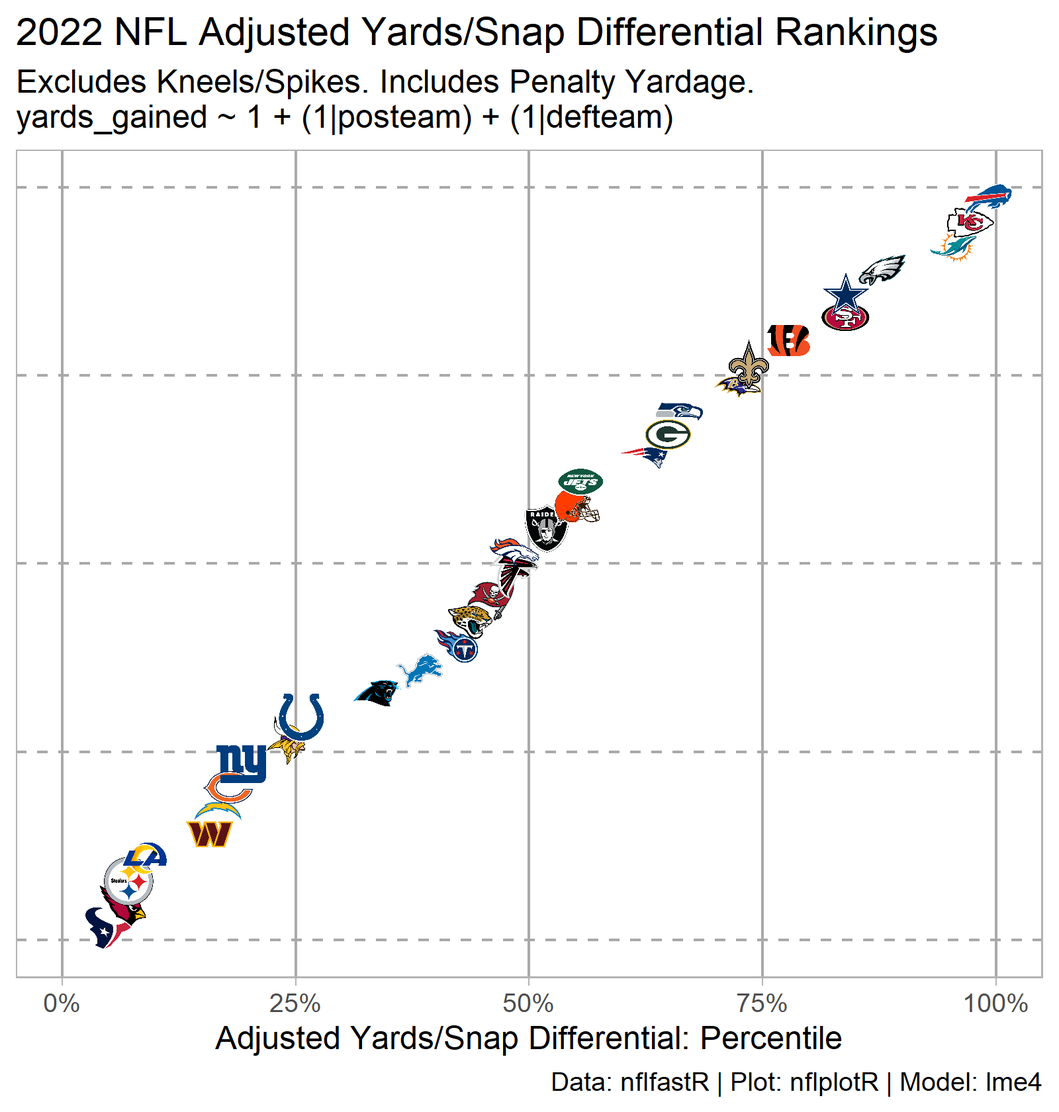
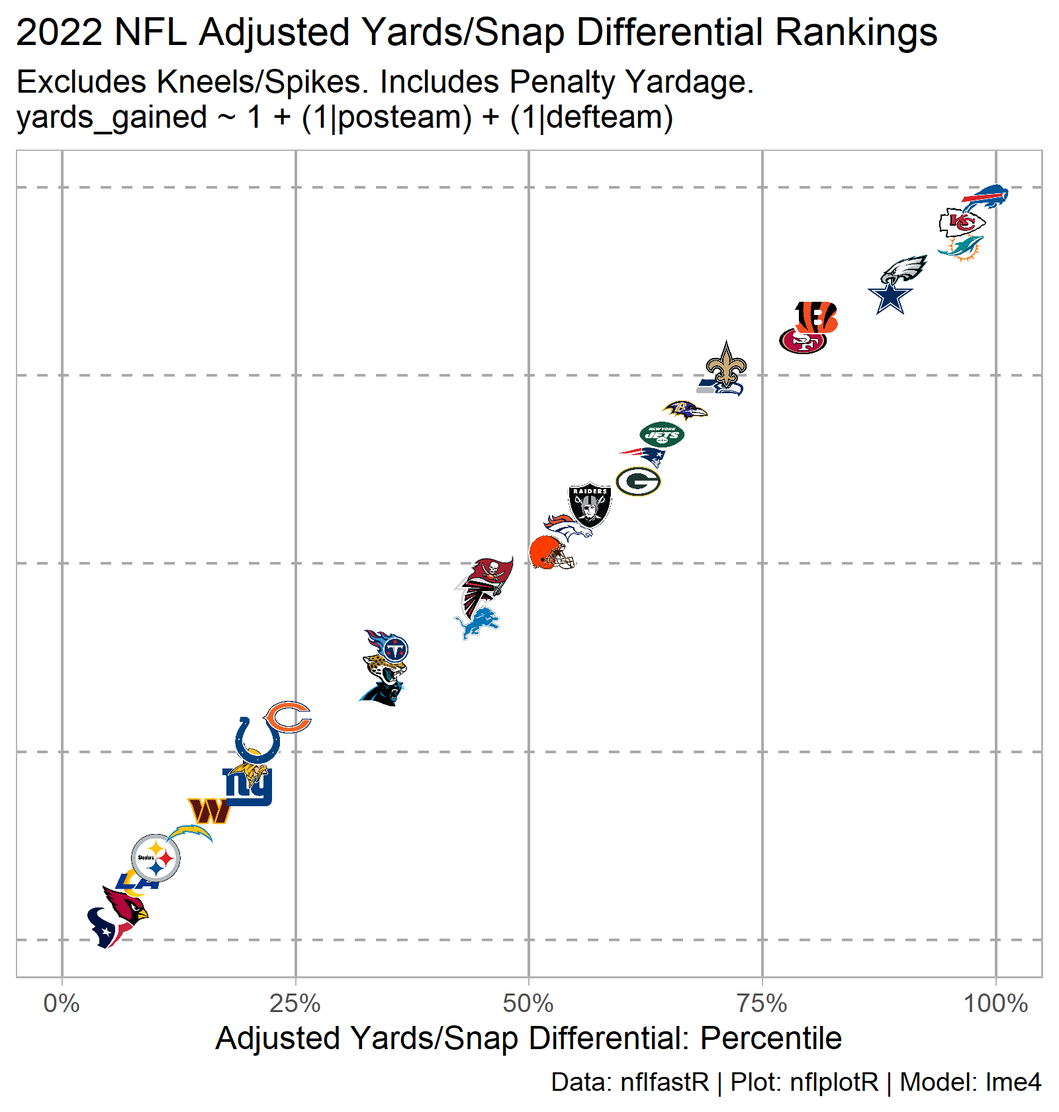
Week 13

Changed region(s): [[0.3438, 0.1548, 0.9688, 0.65], [0.0938, 0.619, 0.3125, 0.8667]]

diff --git a/docs/2022-nfl-team-metrics.html b/docs/2022-nfl-team-metrics.html
@@ -94,8 +94,8 @@ code span.wa { color: #5e5e5e; font-style: italic; } /* Warning */
 
 
   <!--  https://schema.org/Article -->
-  <meta property="article:published" itemprop="datePublished" content="2022-11-29"/>
-  <meta property="article:created" itemprop="dateCreated" content="2022-11-29"/>
+  <meta property="article:published" itemprop="datePublished" content="2022-12-06"/>
+  <meta property="article:created" itemprop="dateCreated" content="2022-12-06"/>
   <meta name="article:author" content="Casey Caprini"/>
 
   <!--  https://developers.facebook.com/docs/sharing/webmasters#markup -->
@@ -114,7 +114,7 @@ code span.wa { color: #5e5e5e; font-style: italic; } /* Warning */
   <!--radix_placeholder_rmarkdown_metadata-->
 
   <script type="text/json" id="radix-rmarkdown-metadata">
-  {"type":"list","attributes":{"names":{"type":"character","attributes":{},"value":["title","description","author","date","output"]}},"value":[{"type":"character","attributes":{},"value":["2022 NFL Team Metrics"]},{"type":"character","attributes":{},"value":["Team time average metrics for the 2021 regular season.\n"]},{"type":"list","attributes":{},"value":[{"type":"list","attributes":{"names":{"type":"character","attributes":{},"value":["name"]}},"value":[{"type":"character","attributes":{},"value":["Casey Caprini"]}]}]},{"type":"character","attributes":{},"value":["11-29-2022"]},{"type":"list","attributes":{"names":{"type":"character","attributes":{},"value":["distill::distill_article"]}},"value":[{"type":"list","attributes":{"names":{"type":"character","attributes":{},"value":["self_contained","code_folding"]}},"value":[{"type":"logical","attributes":{},"value":[false]},{"type":"logical","attributes":{},"value":[true]}]}]}]}
+  {"type":"list","attributes":{"names":{"type":"character","attributes":{},"value":["title","description","author","date","output"]}},"value":[{"type":"character","attributes":{},"value":["2022 NFL Team Metrics"]},{"type":"character","attributes":{},"value":["Team time average metrics for the 2021 regular season.\n"]},{"type":"list","attributes":{},"value":[{"type":"list","attributes":{"names":{"type":"character","attributes":{},"value":["name"]}},"value":[{"type":"character","attributes":{},"value":["Casey Caprini"]}]}]},{"type":"character","attributes":{},"value":["12-06-2022"]},{"type":"list","attributes":{"names":{"type":"character","attributes":{},"value":["distill::distill_article"]}},"value":[{"type":"list","attributes":{"names":{"type":"character","attributes":{},"value":["self_contained","code_folding"]}},"value":[{"type":"logical","attributes":{},"value":[false]},{"type":"logical","attributes":{},"value":[true]}]}]}]}
   </script>
   <!--/radix_placeholder_rmarkdown_metadata-->
   <!--radix_placeholder_navigation_in_header-->
@@ -2408,7 +2408,7 @@ code span.wa { color: #5e5e5e; font-style: italic; } /* Warning */
 <!--radix_placeholder_front_matter-->
 
 <script id="distill-front-matter" type="text/json">
-{"title":"2022 NFL Team Metrics","description":"Team time average metrics for the 2021 regular season.","authors":[{"author":"Casey Caprini","authorURL":"#","affiliation":"&nbsp;","affiliationURL":"#","orcidID":""}],"publishedDate":"2022-11-29T00:00:00.000-05:00","citationText":"Caprini, 2022"}
+{"title":"2022 NFL Team Metrics","description":"Team time average metrics for the 2021 regular season.","authors":[{"author":"Casey Caprini","authorURL":"#","affiliation":"&nbsp;","affiliationURL":"#","orcidID":""}],"publishedDate":"2022-12-06T00:00:00.000-05:00","citationText":"Caprini, 2022"}
 </script>
 
 <!--/radix_placeholder_front_matter-->
@@ -2441,7 +2441,7 @@ code span.wa { color: #5e5e5e; font-style: italic; } /* Warning */
 <div class="d-byline">
   Casey Caprini  
   
-<br/>11-29-2022
+<br/>12-06-2022
 </div>
 
 <div class="d-article">
@@ -2774,8 +2774,8 @@ Show code
 <span>  <span class='op'>)</span></span></code></pre>
 </div>
 </details>
-<div id="htmlwidget-a11e5197d963953700ed" class="reactable html-widget" style="width:auto;height:675px;"></div>
-<script type="application/json" data-for="htmlwidget-a11e5197d963953700ed">{"x":{"tag":{"name":"Reactable","attribs":{"data":{"team_logo_espn":["https://a.espncdn.com/i/teamlogos/nfl/500/ari.png","https://a.espncdn.com/i/teamlogos/nfl/500/atl.png","https://a.espncdn.com/i/teamlogos/nfl/500/bal.png","https://a.espncdn.com/i/teamlogos/nfl/500/buf.png","https://a.espncdn.com/i/teamlogos/nfl/500-dark/car.png","https://a.espncdn.com/i/teamlogos/nfl/500/chi.png","https://a.espncdn.com/i/teamlogos/nfl/500/cin.png","https://a.espncdn.com/i/teamlogos/nfl/500/cle.png","https://a.espncdn.com/i/teamlogos/nfl/500/dal.png","https://a.espncdn.com/i/teamlogos/nfl/500/den.png","https://a.espncdn.com/i/teamlogos/nfl/500/det.png","https://a.espncdn.com/i/teamlogos/nfl/500/gb.png","https://a.espncdn.com/i/teamlogos/nfl/500/hou.png","https://a.espncdn.com/i/teamlogos/nfl/500/ind.png","https://a.espncdn.com/i/teamlogos/nfl/500/jax.png","https://a.espncdn.com/i/teamlogos/nfl/500/kc.png","https://a.espncdn.com/i/teamlogos/nfl/500/lar.png","https://a.espncdn.com/i/teamlogos/nfl/500/lac.png","https://a.espncdn.com/i/teamlogos/nfl/500/lv.png","https://a.espncdn.com/i/teamlogos/nfl/500/mia.png","https://a.espncdn.com/i/teamlogos/nfl/500/min.png","https://a.espncdn.com/i/teamlogos/nfl/500/ne.png","https://a.espncdn.com/i/teamlogos/nfl/500/no.png","https://a.espncdn.com/i/teamlogos/nfl/500/nyg.png","https://a.espncdn.com/i/teamlogos/nfl/500/nyj.png","https://a.espncdn.com/i/teamlogos/nfl/500/phi.png","https://a.espncdn.com/i/teamlogos/nfl/500/pit.png","https://a.espncdn.com/i/teamlogos/nfl/500/sea.png","https://a.espncdn.com/i/teamlogos/nfl/500/sf.png","https://a.espncdn.com/i/teamlogos/nfl/500/tb.png","https://a.espncdn.com/i/teamlogos/nfl/500/ten.png","https://a.espncdn.com/i/teamlogos/nfl/500/wsh.png"],"team":["ARI","ATL","BAL","BUF","CAR","CHI","CIN","CLE","DAL","DEN","DET","GB","HOU","IND","JAX","KC","LA","LAC","LV","MIA","MIN","NE","NO","NYG","NYJ","PHI","PIT","SEA","SF","TB","TEN","WAS"],"time_avg_lead":[-4.05344907407407,-1.74164351851852,4.50881313131313,5.72234848484849,-1.05662037037037,-3.03743055555556,1.79866161616162,0.0482828282828282,4.2035101010101,-1.24575757575758,0.058510101010101,-2.13541666666667,-4.94623737373737,-3.61984848484849,0.828257575757576,3.82598484848485,-1.4644696969697,-0.617348484848485,-1.36429292929293,1.38265151515152,-1.10992424242424,1.42795454545455,-1.52958333333333,-1.79171717171717,-0.426363636363636,5.50765151515152,-3.44016666666667,0.881944444444444,3.16732323232323,-0.454520202020202,2.9205303030303,-1.2175],"time_avg_wins":[3.96118842812051,5.46112647908553,8.26427380444441,7.93060653459095,5.90963509235272,4.18948346909166,5.52948407756933,5.50883782943219,7.43670586307019,4.69173038314492,5.67150652565316,4.66634673723079,3.27202052117047,3.62503255878838,5.66414688485867,7.01931793822915,4.38732927543716,5.0949023210292,4.93559868976103,5.80690016267016,5.61769389570915,6.13813703023069,4.71922710996195,4.25382338177725,5.39380490501931,8.2505598052664,3.89642077193528,6.26423985644772,7.11614185877783,5.27537574960225,7.66018671781494,5.38821534172662],"time_avg_win_percent":[0.330099035676709,0.455093873257128,0.751297618585856,0.720964230417359,0.492469591029393,0.349123622424305,0.502680370688121,0.50080343903929,0.676064169370018,0.426520943922266,0.515591502332106,0.388862228102566,0.297456411015498,0.329548414435307,0.514922444078061,0.638119812566286,0.398848115948833,0.463172938275382,0.448690789978276,0.527900014788197,0.510699445064469,0.558012457293699,0.393268925830162,0.386711216525204,0.490345900456301,0.750050891387855,0.389642077193528,0.569476350586157,0.646921987161621,0.479579613600205,0.696380610710449,0.449017945143885],"off_yards_per_snap":[4.54032258064516,5.27855153203343,5.38161559888579,6.1562082777036,4.75736325385694,5.04611330698287,5.4340878828229,5.32655654383736,5.26812585499316,4.73412698412698,5.39368998628258,5.40026075619296,4.5362962962963,4.59025032938076,5.26379542395693,6.06493506493506,4.30668604651163,4.95838751625488,5.42739726027397,6.14486638537271,5.03306878306878,5.10771470160116,5.41253263707572,4.78675496688742,4.88811188811189,5.49934123847167,4.38737446197991,5.66280752532561,5.37849162011173,4.81524547803618,4.87689969604863,4.69166666666667],"off_adj_yards_per_snap":[4.7875621235831,5.21483121430855,5.28543549671728,5.66457430985253,4.95381190170587,5.09052771313428,5.31027520716325,5.26019516182905,5.1937014956473,4.91651085505447,5.27151741047094,5.29635198607914,4.82930234779262,4.85133897429465,5.20983161535981,5.64280800664446,4.75002315780824,5.02932416737374,5.29698112639498,5.6422247358236,5.08391161436252,5.11373344962357,5.28052960820893,4.93738685752726,5.01671090359482,5.30894176414819,4.7875223897739,5.39169427242395,5.24931980882225,4.96241981390419,5.01875650326691,4.88233911773926],"def_yards_per_snap":[5.37848101265823,5.34178743961353,5.16272600834492,4.8326639892905,4.88502994011976,5.7758152173913,5.01129943502825,5.4541547277937,4.39733333333333,4.42629482071713,5.89178617992177,5.28961038961039,5.51617076326003,4.76610644257703,5.42876526458616,5.04287690179806,5.08393632416787,5.71004243281471,5.53856749311295,5.32633053221288,5.66711409395973,4.78279266572638,4.98611111111111,5.26206896551724,4.70572207084469,4.51983584131327,5.41973490427099,5.49487179487179,4.52608695652174,4.72352132049519,4.95150720838794,5.18145161290323],"def_adj_yards_per_snap":[5.20108886084684,5.22657936759538,5.1267657090688,5.03407114137792,5.0676867519261,5.34137309640743,5.10497843579554,5.22572688849035,4.92633676598911,4.92764565602068,5.35292718206685,5.19374757795083,5.2780405052586,5.02906074808599,5.25307097461319,5.12659278356914,5.11646240153074,5.29130085066299,5.28453702215769,5.18846746492724,5.27592685576857,5.02947777368179,5.11124785395862,5.17356198030952,4.97984567309593,4.99500328729662,5.1851199657054,5.28049651846245,4.98328349562388,4.9910153155732,5.07403200645047,5.154924200164],"yards_per_snap_diff":[-0.838158432013067,-0.0632359075801006,0.21888959054087,1.32354428841311,-0.127666686262818,-0.729701910408433,0.422788447794654,-0.127598183956339,0.870792521659827,0.307832163409853,-0.498096193639195,0.110650366582569,-0.97987446696373,-0.175856113196266,-0.164969840629229,1.022058163137,-0.777250277656244,-0.751654916559834,-0.111170232838975,0.81853585315983,-0.634045310890948,0.324922035874789,0.426421525964607,-0.475313998629824,0.182389817267202,0.979505397158404,-1.03236044229107,0.16793573045382,0.852404663589993,0.0917241575409902,-0.07460751233931,-0.48978494623656],"adj_yards_per_snap_diff":[-0.413526737263743,-0.0117481532868249,0.158669787648476,0.630503168474609,-0.113874850220234,-0.250845383273151,0.20529677136771,0.034468273338697,0.267364729658185,-0.0111348009662064,-0.0814097715959159,0.102604408128305,-0.448738157465982,-0.177721773791333,-0.0432393592533744,0.516215223075317,-0.366439243722493,-0.261976683289255,0.0124441042372947,0.453757270896359,-0.19201524140605,0.0842556759417787,0.169281754250309,-0.236175122782264,0.0368652304988881,0.313938476851572,-0.397597575931496,0.111197753961496,0.266036313198372,-0.0285955016690096,-0.0552755031835579,-0.272585082424743]},"columns":[{"accessor":"team_logo_espn","name":" ","type":"character","format":{"cell":{"digits":1},"aggregated":{"digits":1}},"align":"center","sortable":false,"cell":[{"name":"Fragment","attribs":[],"children":[{"name":"div","attribs":{"style":{"display":"flex","justifyContent":"center"}},"children":[{"name":"img","attribs":{"src":"https://a.espncdn.com/i/teamlogos/nfl/500/ari.png","align":"center","height":24,"width":24},"children":[]}]}]},{"name":"Fragment","attribs":[],"children":[{"name":"div","attribs":{"style":{"display":"flex","justifyContent":"center"}},"children":[{"name":"img","attribs":{"src":"https://a.espncdn.com/i/teamlogos/nfl/500/atl.png","align":"center","height":24,"width":24},"children":[]}]}]},{"name":"Fragment","attribs":[],"children":[{"name":"div","attribs":{"style":{"display":"flex","justifyContent":"center"}},"children":[{"name":"img","attribs":{"src":"https://a.espncdn.com/i/teamlogos/nfl/500/bal.png","align":"center","height":24,"width":24},"children":[]}]}]},{"name":"Fragment","attribs":[],"children":[{"name":"div","attribs":{"style":{"display":"flex","justifyContent":"center"}},"children":[{"name":"img","attribs":{"src":"https://a.espncdn.com/i/teamlogos/nfl/500/buf.png","align":"center","height":24,"width":24},"children":[]}]}]},{"name":"Fragment","attribs":[],"children":[{"name":"div","attribs":{"style":{"display":"flex","justifyContent":"center"}},"children":[{"name":"img","attribs":{"src":"https://a.espncdn.com/i/teamlogos/nfl/500-dark/car.png","align":"center","height":24,"width":24},"children":[]}]}]},{"name":"Fragment","attribs":[],"children":[{"name":"div","attribs":{"style":{"display":"flex","justifyContent":"center"}},"children":[{"name":"img","attribs":{"src":"https://a.espncdn.com/i/teamlogos/nfl/500/chi.png","align":"center","height":24,"width":24},"children":[]}]}]},{"name":"Fragment","attribs":[],"children":[{"name":"div","attribs":{"style":{"display":"flex","justifyContent":"center"}},"children":[{"name":"img","attribs":{"src":"https://a.espncdn.com/i/teamlogos/nfl/500/cin.png","align":"center","height":24,"width":24},"children":[]}]}]},{"name":"Fragment","attribs":[],"children":[{"name":"div","attribs":{"style":{"display":"flex","justifyContent":"center"}},"children":[{"name":"img","attribs":{"src":"https://a.espncdn.com/i/teamlogos/nfl/500/cle.png","align":"center","height":24,"width":24},"children":[]}]}]},{"name":"Fragment","attribs":[],"children":[{"name":"div","attribs":{"style":{"display":"flex","justifyContent":"center"}},"children":[{"name":"img","attribs":{"src":"https://a.espncdn.com/i/teamlogos/nfl/500/dal.png","align":"center","height":24,"width":24},"children":[]}]}]},{"name":"Fragment","attribs":[],"children":[{"name":"div","attribs":{"style":{"display":"flex","justifyContent":"center"}},"children":[{"name":"img","attribs":{"src":"https://a.espncdn.com/i/teamlogos/nfl/500/den.png","align":"center","height":24,"width":24},"children":[]}]}]},{"name":"Fragment","attribs":[],"children":[{"name":"div","attribs":{"style":{"display":"flex","justifyContent":"center"}},"children":[{"name":"img","attribs":{"src":"https://a.espncdn.com/i/teamlogos/nfl/500/det.png","align":"center","height":24,"width":24},"children":[]}]}]},{"name":"Fragment","attribs":[],"children":[{"name":"div","attribs":{"style":{"display":"flex","justifyContent":"center"}},"children":[{"name":"img","attribs":{"src":"https://a.espncdn.com/i/teamlogos/nfl/500/gb.png","align":"center","height":24,"width":24},"children":[]}]}]},{"name":"Fragment","attribs":[],"children":[{"name":"div","attribs":{"style":{"display":"flex","justifyContent":"center"}},"children":[{"name":"img","attribs":{"src":"https://a.espncdn.com/i/teamlogos/nfl/500/hou.png","align":"center","height":24,"width":24},"children":[]}]}]},{"name":"Fragment","attribs":[],"children":[{"name":"div","attribs":{"style":{"display":"flex","justifyContent":"center"}},"children":[{"name":"img","attribs":{"src":"https://a.espncdn.com/i/teamlogos/nfl/500/ind.png","align":"center","height":24,"width":24},"children":[]}]}]},{"name":"Fragment","attribs":[],"children":[{"name":"div","attribs":{"style":{"display":"flex","justifyContent":"center"}},"children":[{"name":"img","attribs":{"src":"https://a.espncdn.com/i/teamlogos/nfl/500/jax.png","align":"center","height":24,"width":24},"children":[]}]}]},{"name":"Fragment","attribs":[],"children":[{"name":"div","attribs":{"style":{"display":"flex","justifyContent":"center"}},"children":[{"name":"img","attribs":{"src":"https://a.espncdn.com/i/teamlogos/nfl/500/kc.png","align":"center","height":24,"width":24},"children":[]}]}]},{"name":"Fragment","attribs":[],"children":[{"name":"div","attribs":{"style":{"display":"flex","justifyContent":"center"}},"children":[{"name":"img","attribs":{"src":"https://a.espncdn.com/i/teamlogos/nfl/500/lar.png","align":"center","height":24,"width":24},"children":[]}]}]},{"name":"Fragment","attribs":[],"children":[{"name":"div","attribs":{"style":{"display":"flex","justifyContent":"center"}},"children":[{"name":"img","attribs":{"src":"https://a.espncdn.com/i/teamlogos/nfl/500/lac.png","align":"center","height":24,"width":24},"children":[]}]}]},{"name":"Fragment","attribs":[],"children":[{"name":"div","attribs":{"style":{"display":"flex","justifyContent":"center"}},"children":[{"name":"img","attribs":{"src":"https://a.espncdn.com/i/teamlogos/nfl/500/lv.png","align":"center","height":24,"width":24},"children":[]}]}]},{"name":"Fragment","attribs":[],"children":[{"name":"div","attribs":{"style":{"display":"flex","justifyContent":"center"}},"children":[{"name":"img","attribs":{"src":"https://a.espncdn.com/i/teamlogos/nfl/500/mia.png","align":"center","height":24,"width":24},"children":[]}]}]},{"name":"Fragment","attribs":[],"children":[{"name":"div","attribs":{"style":{"display":"flex","justifyContent":"center"}},"children":[{"name":"img","attribs":{"src":"https://a.espncdn.com/i/teamlogos/nfl/500/min.png","align":"center","height":24,"width":24},"children":[]}]}]},{"name":"Fragment","attribs":[],"children":[{"name":"div","attribs":{"style":{"display":"flex","justifyContent":"center"}},"children":[{"name":"img","attribs":{"src":"https://a.espncdn.com/i/teamlogos/nfl/500/ne.png","align":"center","height":24,"width":24},"children":[]}]}]},{"name":"Fragment","attribs":[],"children":[{"name":"div","attribs":{"style":{"display":"flex","justifyContent":"center"}},"children":[{"name":"img","attribs":{"src":"https://a.espncdn.com/i/teamlogos/nfl/500/no.png","align":"center","height":24,"width":24},"children":[]}]}]},{"name":"Fragment","attribs":[],"children":[{"name":"div","attribs":{"style":{"display":"flex","justifyContent":"center"}},"children":[{"name":"img","attribs":{"src":"https://a.espncdn.com/i/teamlogos/nfl/500/nyg.png","align":"center","height":24,"width":24},"children":[]}]}]},{"name":"Fragment","attribs":[],"children":[{"name":"div","attribs":{"style":{"display":"flex","justifyContent":"center"}},"children":[{"name":"img","attribs":{"src":"https://a.espncdn.com/i/teamlogos/nfl/500/nyj.png","align":"center","height":24,"width":24},"children":[]}]}]},{"name":"Fragment","attribs":[],"children":[{"name":"div","attribs":{"style":{"display":"flex","justifyContent":"center"}},"children":[{"name":"img","attribs":{"src":"https://a.espncdn.com/i/teamlogos/nfl/500/phi.png","align":"center","height":24,"width":24},"children":[]}]}]},{"name":"Fragment","attribs":[],"children":[{"name":"div","attribs":{"style":{"display":"flex","justifyContent":"center"}},"children":[{"name":"img","attribs":{"src":"https://a.espncdn.com/i/teamlogos/nfl/500/pit.png","align":"center","height":24,"width":24},"children":[]}]}]},{"name":"Fragment","attribs":[],"children":[{"name":"div","attribs":{"style":{"display":"flex","justifyContent":"center"}},"children":[{"name":"img","attribs":{"src":"https://a.espncdn.com/i/teamlogos/nfl/500/sea.png","align":"center","height":24,"width":24},"children":[]}]}]},{"name":"Fragment","attribs":[],"children":[{"name":"div","attribs":{"style":{"display":"flex","justifyContent":"center"}},"children":[{"name":"img","attribs":{"src":"https://a.espncdn.com/i/teamlogos/nfl/500/sf.png","align":"center","height":24,"width":24},"children":[]}]}]},{"name":"Fragment","attribs":[],"children":[{"name":"div","attribs":{"style":{"display":"flex","justifyContent":"center"}},"children":[{"name":"img","attribs":{"src":"https://a.espncdn.com/i/teamlogos/nfl/500/tb.png","align":"center","height":24,"width":24},"children":[]}]}]},{"name":"Fragment","attribs":[],"children":[{"name":"div","attribs":{"style":{"display":"flex","justifyContent":"center"}},"children":[{"name":"img","attribs":{"src":"https://a.espncdn.com/i/teamlogos/nfl/500/ten.png","align":"center","height":24,"width":24},"children":[]}]}]},{"name":"Fragment","attribs":[],"children":[{"name":"div","attribs":{"style":{"display":"flex","justifyContent":"center"}},"children":[{"name":"img","attribs":{"src":"https://a.espncdn.com/i/teamlogos/nfl/500/wsh.png","align":"center","height":24,"width":24},"children":[]}]}]}],"width":40,"style":{"position":"sticky","left":0,"background":"#fff","zIndex":1}},{"accessor":"team","name":"Team","type":"character","format":{"cell":{"digits":1},"aggregated":{"digits":1}},"align":"center","width":60,"style":{"position":"sticky","left":40,"background":"#fff","zIndex":1}},{"accessor":"time_avg_lead","name":"Time Average Lead","type":"numeric","format":{"cell":{"digits":1},"aggregated":{"digits":1}},"align":"center"},{"accessor":"time_avg_wins","name":"Expected Wins","type":"numeric","format":{"cell":{"digits":1},"aggregated":{"digits":1}},"align":"center"},{"accessor":"time_avg_win_percent","name":"Expected Win Percentage","type":"numeric","format":{"cell":{"digits":3},"aggregated":{"digits":3}},"align":"center"},{"accessor":"off_yards_per_snap","name":"Yards/Snap","type":"numeric","format":{"cell":{"digits":1},"aggregated":{"digits":1}},"align":"center"},{"accessor":"off_adj_yards_per_snap","name":"Adj Yards/Snap","type":"numeric","format":{"cell":{"digits":1},"aggregated":{"digits":1}},"align":"center"},{"accessor":"def_yards_per_snap","name":"Yards/Snap","type":"numeric","format":{"cell":{"digits":1},"aggregated":{"digits":1}},"align":"center"},{"accessor":"def_adj_yards_per_snap","name":"Adj Yards/Snap","type":"numeric","format":{"cell":{"digits":1},"aggregated":{"digits":1}},"align":"center"},{"accessor":"yards_per_snap_diff","name":"Yards/Snap Diff","type":"numeric","format":{"cell":{"digits":2},"aggregated":{"digits":2}},"align":"center"},{"accessor":"adj_yards_per_snap_diff","name":"Adj Yards/Snap Diff","type":"numeric","format":{"cell":{"digits":2},"aggregated":{"digits":2}},"align":"center"}],"columnGroups":[{"name":"Time Average Stats","columns":["time_avg_lead","time_avg_wins","time_avg_win_percent"]},{"name":"Offense","columns":["off_yards_per_snap","off_adj_yards_per_snap"]},{"name":"Defense","columns":["def_yards_per_snap","def_adj_yards_per_snap"]},{"name":"Differential","columns":["yards_per_snap_diff","adj_yards_per_snap_diff"]}],"defaultSortDesc":true,"defaultSorted":[{"id":"time_avg_lead","desc":true}],"pagination":false,"defaultPageSize":10,"paginationType":"numbers","showPageInfo":true,"minRows":1,"highlight":true,"bordered":true,"height":"675px","theme":{"color":"#878e94","backgroundColor":"#ffffff","borderWidth":"0px","stripedColor":"#f9f9fb","highlightColor":"#f1f3f4","cellPadding":4,"tableStyle":{"fontSize":16},"headerStyle":{"borderWidth":"1px","padding":"7px","borderTop":"1px solid #595d63","backgroundColor":"#595d63","textTransform":"uppercase","borderColor":"#595d63","color":"#ffffff","transitionDuration":"0.1s","&:hover[aria-sort]":{"backgroundColor":"#4d5056","color":"#ffffff"},"&[aria-sort='ascending']":{"backgroundColor":"#393c40","color":"#ffffff","boxShadow":"inset 0 3px 0 0 #ffffff"},"&[aria-sort='descending']":{"backgroundColor":"#393c40","color":"#ffffff","boxShadow":"inset 0 -3px 0 0 #ffffff"},"fontSize":12,"fontWeight":"bold"},"groupHeaderStyle":{"&:not(:empty)":{"backgroundColor":"#e4e8ed","textTransform":"uppercase","fontWeight":"bold","color":"#878e94","fontSize":12,"boxShadow":"inset 3px 0 0 0 #ffffff"}},"rowSelectedStyle":{"backgroundColor":"#e4e8ed"},"inputStyle":{"backgroundColor":"#ffffff","color":"#878e94"},"searchInputStyle":{"fontSize":"14px","textTransform":"uppercase","backgroundColor":"#ffffff","color":"#878e94","&:focus":{"color":"#878e94"}},"selectStyle":{"backgroundColor":"#073c57","color":"#ffffff","borderColor":"#ffffff","outlineColor":"#ffffff"},"paginationStyle":{"textTransform":"uppercase","fontSize":"15px"},"pageButtonStyle":{"textTransform":"uppercase","fontSize":"15px","backgroundColor":"#ffffff","color":"#164861","&:hover":{"backgroundColor":"#052c3f","color":"#ffffff"}},"pageButtonHoverStyle":{"backgroundColor":"#052c3f","color":"#ffffff"},"pageButtonActiveStyle":{"backgroundColor":"#073c57","color":"#ffffff"},"pageButtonCurrentStyle":{"backgroundColor":"#073c57","color":"#ffffff"}},"dataKey":"b248c74dd7f70c5c193525e6b9b59358"},"children":[]},"class":"reactR_markup"},"evals":[],"jsHooks":[]}</script>
+<div id="htmlwidget-ca8fc4a6e5328fe7c69b" class="reactable html-widget" style="width:auto;height:675px;"></div>
+<script type="application/json" data-for="htmlwidget-ca8fc4a6e5328fe7c69b">{"x":{"tag":{"name":"Reactable","attribs":{"data":{"team_logo_espn":["https://a.espncdn.com/i/teamlogos/nfl/500/ari.png","https://a.espncdn.com/i/teamlogos/nfl/500/atl.png","https://a.espncdn.com/i/teamlogos/nfl/500/bal.png","https://a.espncdn.com/i/teamlogos/nfl/500/buf.png","https://a.espncdn.com/i/teamlogos/nfl/500-dark/car.png","https://a.espncdn.com/i/teamlogos/nfl/500/chi.png","https://a.espncdn.com/i/teamlogos/nfl/500/cin.png","https://a.espncdn.com/i/teamlogos/nfl/500/cle.png","https://a.espncdn.com/i/teamlogos/nfl/500/dal.png","https://a.espncdn.com/i/teamlogos/nfl/500/den.png","https://a.espncdn.com/i/teamlogos/nfl/500/det.png","https://a.espncdn.com/i/teamlogos/nfl/500/gb.png","https://a.espncdn.com/i/teamlogos/nfl/500/hou.png","https://a.espncdn.com/i/teamlogos/nfl/500/ind.png","https://a.espncdn.com/i/teamlogos/nfl/500/jax.png","https://a.espncdn.com/i/teamlogos/nfl/500/kc.png","https://a.espncdn.com/i/teamlogos/nfl/500/lar.png","https://a.espncdn.com/i/teamlogos/nfl/500/lac.png","https://a.espncdn.com/i/teamlogos/nfl/500/lv.png","https://a.espncdn.com/i/teamlogos/nfl/500/mia.png","https://a.espncdn.com/i/teamlogos/nfl/500/min.png","https://a.espncdn.com/i/teamlogos/nfl/500/ne.png","https://a.espncdn.com/i/teamlogos/nfl/500/no.png","https://a.espncdn.com/i/teamlogos/nfl/500/nyg.png","https://a.espncdn.com/i/teamlogos/nfl/500/nyj.png","https://a.espncdn.com/i/teamlogos/nfl/500/phi.png","https://a.espncdn.com/i/teamlogos/nfl/500/pit.png","https://a.espncdn.com/i/teamlogos/nfl/500/sea.png","https://a.espncdn.com/i/teamlogos/nfl/500/sf.png","https://a.espncdn.com/i/teamlogos/nfl/500/tb.png","https://a.espncdn.com/i/teamlogos/nfl/500/ten.png","https://a.espncdn.com/i/teamlogos/nfl/500/wsh.png"],"team":["ARI","ATL","BAL","BUF","CAR","CHI","CIN","CLE","DAL","DEN","DET","GB","HOU","IND","JAX","KC","LA","LAC","LV","MIA","MIN","NE","NO","NYG","NYJ","PHI","PIT","SEA","SF","TB","TEN","WAS"],"time_avg_lead":[-4.05344907407407,-2.05963675213675,3.85497685185185,5.89810185185185,-1.05662037037037,-2.41797008547009,1.87212962962963,0.33162037037037,4.45611111111111,-0.863842592592593,1.30138888888889,-2.35696581196581,-4.82141203703704,-4.0399358974359,-0.488518518518519,3.2837962962963,-1.41569444444444,-0.798101851851852,-1.01840277777778,0.978587962962963,-0.456851851851852,0.656342592592593,-1.08365384615385,-1.53763888888889,-0.951412037037037,6.10465277777778,-1.92166666666667,0.881712962962963,3.19222222222222,-0.772268518518519,1.62118055555556,-1.22055555555556],"time_avg_wins":[3.96118842812051,5.60038978415838,8.52647889706726,8.84952413618818,5.90963509235272,5.01509258874235,6.22602633832163,6.25324135529744,8.34073039583733,5.42952529052207,6.6619567998731,4.84073761758011,3.52761699530522,3.87619371699071,5.67369661063873,7.32277567747685,4.81961250173335,5.39145240592915,5.63904860486109,6.06144946780604,6.50716526966451,6.21921942863346,5.50889504863121,4.85004322230984,5.50433353106395,9.23126084928356,5.60197177589296,6.83195663015154,7.86159255364196,5.48570781093299,7.67948567379778,5.79199550119403],"time_avg_win_percent":[0.330099035676709,0.430799214166029,0.710539908088939,0.737460344682348,0.492469591029393,0.385776352980181,0.518835528193469,0.521103446274787,0.695060866319777,0.45246044087684,0.555163066656092,0.372364432121547,0.293968082942101,0.298168747460824,0.472808050886561,0.610231306456404,0.401634375144446,0.449287700494095,0.469920717071758,0.505120788983837,0.542263772472043,0.518268285719455,0.423761157587016,0.40417026852582,0.458694460921996,0.769271737440297,0.466830981324414,0.569329719179295,0.655132712803496,0.457142317577749,0.639957139483148,0.445538115476464],"off_yards_per_snap":[4.54032258064516,5.25290322580645,5.2746835443038,6.04993909866017,4.75736325385694,5.20345252774353,5.50426309378806,5.28386336866902,5.35087719298246,4.75432098765432,5.43586550435866,5.46209386281588,4.53378378378378,4.57877094972067,5.19725343320849,6.07757575757576,4.36206896551724,4.97630331753555,5.51893939393939,6.12911725955204,4.98055893074119,5.04453441295547,5.35515151515152,4.78266178266178,4.9812734082397,5.49344457687724,4.47836538461539,5.73289473684211,5.29234629861982,4.80304806565064,4.77310924369748,4.68972972972973],"off_adj_yards_per_snap":[4.77541177179817,5.20182674291596,5.25323072949044,5.64413983112363,4.95295515613202,5.17807586164498,5.36476937724787,5.24059593805007,5.24640645066852,4.91533648026445,5.29953988699337,5.33613542925781,4.80472023847726,4.82982641380176,5.1669502308467,5.67127748003992,4.74905934905303,5.02491846402087,5.34752151033663,5.66960169893069,5.06501260345221,5.08493623301914,5.26089272714005,4.92316745578483,5.05357032565474,5.3199332185847,4.80482394821334,5.44953743842215,5.20309117685299,4.94317608621583,4.96170180963346,4.86516803061928],"def_yards_per_snap":[5.37848101265823,5.33035714285714,5.15394566623545,4.79275905118602,4.88502994011976,5.81,5.10091743119266,5.3735255570118,4.4068209500609,4.40727272727273,5.7830303030303,5.4294403892944,5.45269461077844,4.87853773584906,5.46732429099877,5.1500630517024,5.20657894736842,5.7815344603381,5.50312109862672,5.24528301886792,5.676293622142,4.79769526248399,4.95866819747417,5.2,4.67915106117353,4.45108005082592,5.31335830212235,5.451536643026,4.59485094850949,4.74045801526718,4.99762752075919,5.14480198019802],"def_adj_yards_per_snap":[5.20447939318573,5.24210355946796,5.13220413558803,5.00849422341781,5.06822487031525,5.37917342733335,5.11933703388913,5.22357792970182,4.90320751579089,4.88620724180633,5.34089727872926,5.25239943116359,5.27200126560555,5.06041776121973,5.28089867829143,5.16179794753824,5.15175468151187,5.33766114135431,5.30122219665006,5.16589163585487,5.30683134257743,4.99784298243839,5.10310797524431,5.16528695535434,4.95053258142149,4.95361834020372,5.16997492915459,5.29743285800055,4.97098133334761,4.97368619240058,5.07538097621913,5.15068227991088],"yards_per_snap_diff":[-0.838158432013067,-0.0774539170506916,0.120737878068351,1.25718004747415,-0.127666686262818,-0.606547472256473,0.403345662595403,-0.0896621883427731,0.944056242921555,0.347048260381594,-0.347164798671648,0.0326534735214805,-0.918910826994659,-0.299766786128386,-0.270070857790278,0.927512705873362,-0.84450998185118,-0.805231142802556,0.0158182953126769,0.883834240684117,-0.695734691400807,0.246839150471471,0.396483317677347,-0.417338217338218,0.302122347066168,1.04236452605131,-0.834992917506962,0.281358093816101,0.697495350110339,0.0625900503834691,-0.224518277061715,-0.45507225046829],"adj_yards_per_snap_diff":[-0.42906762138756,-0.040276816552006,0.121026593902405,0.635645607705819,-0.11526971418323,-0.20109756568837,0.245432343358739,0.017018008348245,0.343198934877627,0.0291292384581201,-0.0413573917358887,0.0837359980942169,-0.467281027128291,-0.23059134741797,-0.11394844744473,0.509479532501684,-0.402695332458835,-0.312742677333437,0.0462993136865721,0.503710063075824,-0.241818739125219,0.0870932505807405,0.157784751895745,-0.242119499569512,0.103037744233254,0.366314878380986,-0.36515098094125,0.152104580421592,0.232109843505375,-0.0305101061847513,-0.113679166585668,-0.285514249291593]},"columns":[{"accessor":"team_logo_espn","name":" ","type":"character","format":{"cell":{"digits":1},"aggregated":{"digits":1}},"align":"center","sortable":false,"cell":[{"name":"Fragment","attribs":[],"children":[{"name":"div","attribs":{"style":{"display":"flex","justifyContent":"center"}},"children":[{"name":"img","attribs":{"src":"https://a.espncdn.com/i/teamlogos/nfl/500/ari.png","align":"center","height":24,"width":24},"children":[]}]}]},{"name":"Fragment","attribs":[],"children":[{"name":"div","attribs":{"style":{"display":"flex","justifyContent":"center"}},"children":[{"name":"img","attribs":{"src":"https://a.espncdn.com/i/teamlogos/nfl/500/atl.png","align":"center","height":24,"width":24},"children":[]}]}]},{"name":"Fragment","attribs":[],"children":[{"name":"div","attribs":{"style":{"display":"flex","justifyContent":"center"}},"children":[{"name":"img","attribs":{"src":"https://a.espncdn.com/i/teamlogos/nfl/500/bal.png","align":"center","height":24,"width":24},"children":[]}]}]},{"name":"Fragment","attribs":[],"children":[{"name":"div","attribs":{"style":{"display":"flex","justifyContent":"center"}},"children":[{"name":"img","attribs":{"src":"https://a.espncdn.com/i/teamlogos/nfl/500/buf.png","align":"center","height":24,"width":24},"children":[]}]}]},{"name":"Fragment","attribs":[],"children":[{"name":"div","attribs":{"style":{"display":"flex","justifyContent":"center"}},"children":[{"name":"img","attribs":{"src":"https://a.espncdn.com/i/teamlogos/nfl/500-dark/car.png","align":"center","height":24,"width":24},"children":[]}]}]},{"name":"Fragment","attribs":[],"children":[{"name":"div","attribs":{"style":{"display":"flex","justifyContent":"center"}},"children":[{"name":"img","attribs":{"src":"https://a.espncdn.com/i/teamlogos/nfl/500/chi.png","align":"center","height":24,"width":24},"children":[]}]}]},{"name":"Fragment","attribs":[],"children":[{"name":"div","attribs":{"style":{"display":"flex","justifyContent":"center"}},"children":[{"name":"img","attribs":{"src":"https://a.espncdn.com/i/teamlogos/nfl/500/cin.png","align":"center","height":24,"width":24},"children":[]}]}]},{"name":"Fragment","attribs":[],"children":[{"name":"div","attribs":{"style":{"display":"flex","justifyContent":"center"}},"children":[{"name":"img","attribs":{"src":"https://a.espncdn.com/i/teamlogos/nfl/500/cle.png","align":"center","height":24,"width":24},"children":[]}]}]},{"name":"Fragment","attribs":[],"children":[{"name":"div","attribs":{"style":{"display":"flex","justifyContent":"center"}},"children":[{"name":"img","attribs":{"src":"https://a.espncdn.com/i/teamlogos/nfl/500/dal.png","align":"center","height":24,"width":24},"children":[]}]}]},{"name":"Fragment","attribs":[],"children":[{"name":"div","attribs":{"style":{"display":"flex","justifyContent":"center"}},"children":[{"name":"img","attribs":{"src":"https://a.espncdn.com/i/teamlogos/nfl/500/den.png","align":"center","height":24,"width":24},"children":[]}]}]},{"name":"Fragment","attribs":[],"children":[{"name":"div","attribs":{"style":{"display":"flex","justifyContent":"center"}},"children":[{"name":"img","attribs":{"src":"https://a.espncdn.com/i/teamlogos/nfl/500/det.png","align":"center","height":24,"width":24},"children":[]}]}]},{"name":"Fragment","attribs":[],"children":[{"name":"div","attribs":{"style":{"display":"flex","justifyContent":"center"}},"children":[{"name":"img","attribs":{"src":"https://a.espncdn.com/i/teamlogos/nfl/500/gb.png","align":"center","height":24,"width":24},"children":[]}]}]},{"name":"Fragment","attribs":[],"children":[{"name":"div","attribs":{"style":{"display":"flex","justifyContent":"center"}},"children":[{"name":"img","attribs":{"src":"https://a.espncdn.com/i/teamlogos/nfl/500/hou.png","align":"center","height":24,"width":24},"children":[]}]}]},{"name":"Fragment","attribs":[],"children":[{"name":"div","attribs":{"style":{"display":"flex","justifyContent":"center"}},"children":[{"name":"img","attribs":{"src":"https://a.espncdn.com/i/teamlogos/nfl/500/ind.png","align":"center","height":24,"width":24},"children":[]}]}]},{"name":"Fragment","attribs":[],"children":[{"name":"div","attribs":{"style":{"display":"flex","justifyContent":"center"}},"children":[{"name":"img","attribs":{"src":"https://a.espncdn.com/i/teamlogos/nfl/500/jax.png","align":"center","height":24,"width":24},"children":[]}]}]},{"name":"Fragment","attribs":[],"children":[{"name":"div","attribs":{"style":{"display":"flex","justifyContent":"center"}},"children":[{"name":"img","attribs":{"src":"https://a.espncdn.com/i/teamlogos/nfl/500/kc.png","align":"center","height":24,"width":24},"children":[]}]}]},{"name":"Fragment","attribs":[],"children":[{"name":"div","attribs":{"style":{"display":"flex","justifyContent":"center"}},"children":[{"name":"img","attribs":{"src":"https://a.espncdn.com/i/teamlogos/nfl/500/lar.png","align":"center","height":24,"width":24},"children":[]}]}]},{"name":"Fragment","attribs":[],"children":[{"name":"div","attribs":{"style":{"display":"flex","justifyContent":"center"}},"children":[{"name":"img","attribs":{"src":"https://a.espncdn.com/i/teamlogos/nfl/500/lac.png","align":"center","height":24,"width":24},"children":[]}]}]},{"name":"Fragment","attribs":[],"children":[{"name":"div","attribs":{"style":{"display":"flex","justifyContent":"center"}},"children":[{"name":"img","attribs":{"src":"https://a.espncdn.com/i/teamlogos/nfl/500/lv.png","align":"center","height":24,"width":24},"children":[]}]}]},{"name":"Fragment","attribs":[],"children":[{"name":"div","attribs":{"style":{"display":"flex","justifyContent":"center"}},"children":[{"name":"img","attribs":{"src":"https://a.espncdn.com/i/teamlogos/nfl/500/mia.png","align":"center","height":24,"width":24},"children":[]}]}]},{"name":"Fragment","attribs":[],"children":[{"name":"div","attribs":{"style":{"display":"flex","justifyContent":"center"}},"children":[{"name":"img","attribs":{"src":"https://a.espncdn.com/i/teamlogos/nfl/500/min.png","align":"center","height":24,"width":24},"children":[]}]}]},{"name":"Fragment","attribs":[],"children":[{"name":"div","attribs":{"style":{"display":"flex","justifyContent":"center"}},"children":[{"name":"img","attribs":{"src":"https://a.espncdn.com/i/teamlogos/nfl/500/ne.png","align":"center","height":24,"width":24},"children":[]}]}]},{"name":"Fragment","attribs":[],"children":[{"name":"div","attribs":{"style":{"display":"flex","justifyContent":"center"}},"children":[{"name":"img","attribs":{"src":"https://a.espncdn.com/i/teamlogos/nfl/500/no.png","align":"center","height":24,"width":24},"children":[]}]}]},{"name":"Fragment","attribs":[],"children":[{"name":"div","attribs":{"style":{"display":"flex","justifyContent":"center"}},"children":[{"name":"img","attribs":{"src":"https://a.espncdn.com/i/teamlogos/nfl/500/nyg.png","align":"center","height":24,"width":24},"children":[]}]}]},{"name":"Fragment","attribs":[],"children":[{"name":"div","attribs":{"style":{"display":"flex","justifyContent":"center"}},"children":[{"name":"img","attribs":{"src":"https://a.espncdn.com/i/teamlogos/nfl/500/nyj.png","align":"center","height":24,"width":24},"children":[]}]}]},{"name":"Fragment","attribs":[],"children":[{"name":"div","attribs":{"style":{"display":"flex","justifyContent":"center"}},"children":[{"name":"img","attribs":{"src":"https://a.espncdn.com/i/teamlogos/nfl/500/phi.png","align":"center","height":24,"width":24},"children":[]}]}]},{"name":"Fragment","attribs":[],"children":[{"name":"div","attribs":{"style":{"display":"flex","justifyContent":"center"}},"children":[{"name":"img","attribs":{"src":"https://a.espncdn.com/i/teamlogos/nfl/500/pit.png","align":"center","height":24,"width":24},"children":[]}]}]},{"name":"Fragment","attribs":[],"children":[{"name":"div","attribs":{"style":{"display":"flex","justifyContent":"center"}},"children":[{"name":"img","attribs":{"src":"https://a.espncdn.com/i/teamlogos/nfl/500/sea.png","align":"center","height":24,"width":24},"children":[]}]}]},{"name":"Fragment","attribs":[],"children":[{"name":"div","attribs":{"style":{"display":"flex","justifyContent":"center"}},"children":[{"name":"img","attribs":{"src":"https://a.espncdn.com/i/teamlogos/nfl/500/sf.png","align":"center","height":24,"width":24},"children":[]}]}]},{"name":"Fragment","attribs":[],"children":[{"name":"div","attribs":{"style":{"display":"flex","justifyContent":"center"}},"children":[{"name":"img","attribs":{"src":"https://a.espncdn.com/i/teamlogos/nfl/500/tb.png","align":"center","height":24,"width":24},"children":[]}]}]},{"name":"Fragment","attribs":[],"children":[{"name":"div","attribs":{"style":{"display":"flex","justifyContent":"center"}},"children":[{"name":"img","attribs":{"src":"https://a.espncdn.com/i/teamlogos/nfl/500/ten.png","align":"center","height":24,"width":24},"children":[]}]}]},{"name":"Fragment","attribs":[],"children":[{"name":"div","attribs":{"style":{"display":"flex","justifyContent":"center"}},"children":[{"name":"img","attribs":{"src":"https://a.espncdn.com/i/teamlogos/nfl/500/wsh.png","align":"center","height":24,"width":24},"children":[]}]}]}],"width":40,"style":{"position":"sticky","left":0,"background":"#fff","zIndex":1}},{"accessor":"team","name":"Team","type":"character","format":{"cell":{"digits":1},"aggregated":{"digits":1}},"align":"center","width":60,"style":{"position":"sticky","left":40,"background":"#fff","zIndex":1}},{"accessor":"time_avg_lead","name":"Time Average Lead","type":"numeric","format":{"cell":{"digits":1},"aggregated":{"digits":1}},"align":"center"},{"accessor":"time_avg_wins","name":"Expected Wins","type":"numeric","format":{"cell":{"digits":1},"aggregated":{"digits":1}},"align":"center"},{"accessor":"time_avg_win_percent","name":"Expected Win Percentage","type":"numeric","format":{"cell":{"digits":3},"aggregated":{"digits":3}},"align":"center"},{"accessor":"off_yards_per_snap","name":"Yards/Snap","type":"numeric","format":{"cell":{"digits":1},"aggregated":{"digits":1}},"align":"center"},{"accessor":"off_adj_yards_per_snap","name":"Adj Yards/Snap","type":"numeric","format":{"cell":{"digits":1},"aggregated":{"digits":1}},"align":"center"},{"accessor":"def_yards_per_snap","name":"Yards/Snap","type":"numeric","format":{"cell":{"digits":1},"aggregated":{"digits":1}},"align":"center"},{"accessor":"def_adj_yards_per_snap","name":"Adj Yards/Snap","type":"numeric","format":{"cell":{"digits":1},"aggregated":{"digits":1}},"align":"center"},{"accessor":"yards_per_snap_diff","name":"Yards/Snap Diff","type":"numeric","format":{"cell":{"digits":2},"aggregated":{"digits":2}},"align":"center"},{"accessor":"adj_yards_per_snap_diff","name":"Adj Yards/Snap Diff","type":"numeric","format":{"cell":{"digits":2},"aggregated":{"digits":2}},"align":"center"}],"columnGroups":[{"name":"Time Average Stats","columns":["time_avg_lead","time_avg_wins","time_avg_win_percent"]},{"name":"Offense","columns":["off_yards_per_snap","off_adj_yards_per_snap"]},{"name":"Defense","columns":["def_yards_per_snap","def_adj_yards_per_snap"]},{"name":"Differential","columns":["yards_per_snap_diff","adj_yards_per_snap_diff"]}],"defaultSortDesc":true,"defaultSorted":[{"id":"time_avg_lead","desc":true}],"pagination":false,"defaultPageSize":10,"paginationType":"numbers","showPageInfo":true,"minRows":1,"highlight":true,"bordered":true,"height":"675px","theme":{"color":"#878e94","backgroundColor":"#ffffff","borderWidth":"0px","stripedColor":"#f9f9fb","highlightColor":"#f1f3f4","cellPadding":4,"tableStyle":{"fontSize":16},"headerStyle":{"borderWidth":"1px","padding":"7px","borderTop":"1px solid #595d63","backgroundColor":"#595d63","textTransform":"uppercase","borderColor":"#595d63","color":"#ffffff","transitionDuration":"0.1s","&:hover[aria-sort]":{"backgroundColor":"#4d5056","color":"#ffffff"},"&[aria-sort='ascending']":{"backgroundColor":"#393c40","color":"#ffffff","boxShadow":"inset 0 3px 0 0 #ffffff"},"&[aria-sort='descending']":{"backgroundColor":"#393c40","color":"#ffffff","boxShadow":"inset 0 -3px 0 0 #ffffff"},"fontSize":12,"fontWeight":"bold"},"groupHeaderStyle":{"&:not(:empty)":{"backgroundColor":"#e4e8ed","textTransform":"uppercase","fontWeight":"bold","color":"#878e94","fontSize":12,"boxShadow":"inset 3px 0 0 0 #ffffff"}},"rowSelectedStyle":{"backgroundColor":"#e4e8ed"},"inputStyle":{"backgroundColor":"#ffffff","color":"#878e94"},"searchInputStyle":{"fontSize":"14px","textTransform":"uppercase","backgroundColor":"#ffffff","color":"#878e94","&:focus":{"color":"#878e94"}},"selectStyle":{"backgroundColor":"#073c57","color":"#ffffff","borderColor":"#ffffff","outlineColor":"#ffffff"},"paginationStyle":{"textTransform":"uppercase","fontSize":"15px"},"pageButtonStyle":{"textTransform":"uppercase","fontSize":"15px","backgroundColor":"#ffffff","color":"#164861","&:hover":{"backgroundColor":"#052c3f","color":"#ffffff"}},"pageButtonHoverStyle":{"backgroundColor":"#052c3f","color":"#ffffff"},"pageButtonActiveStyle":{"backgroundColor":"#073c57","color":"#ffffff"},"pageButtonCurrentStyle":{"backgroundColor":"#073c57","color":"#ffffff"}},"dataKey":"ea95d78340377ddf00d273a0efbb6327"},"children":[]},"class":"reactR_markup"},"evals":[],"jsHooks":[]}</script>
 </div>
 <h3 id="glossary">Glossary</h3>
 <p>Description of Metrics:</p>
